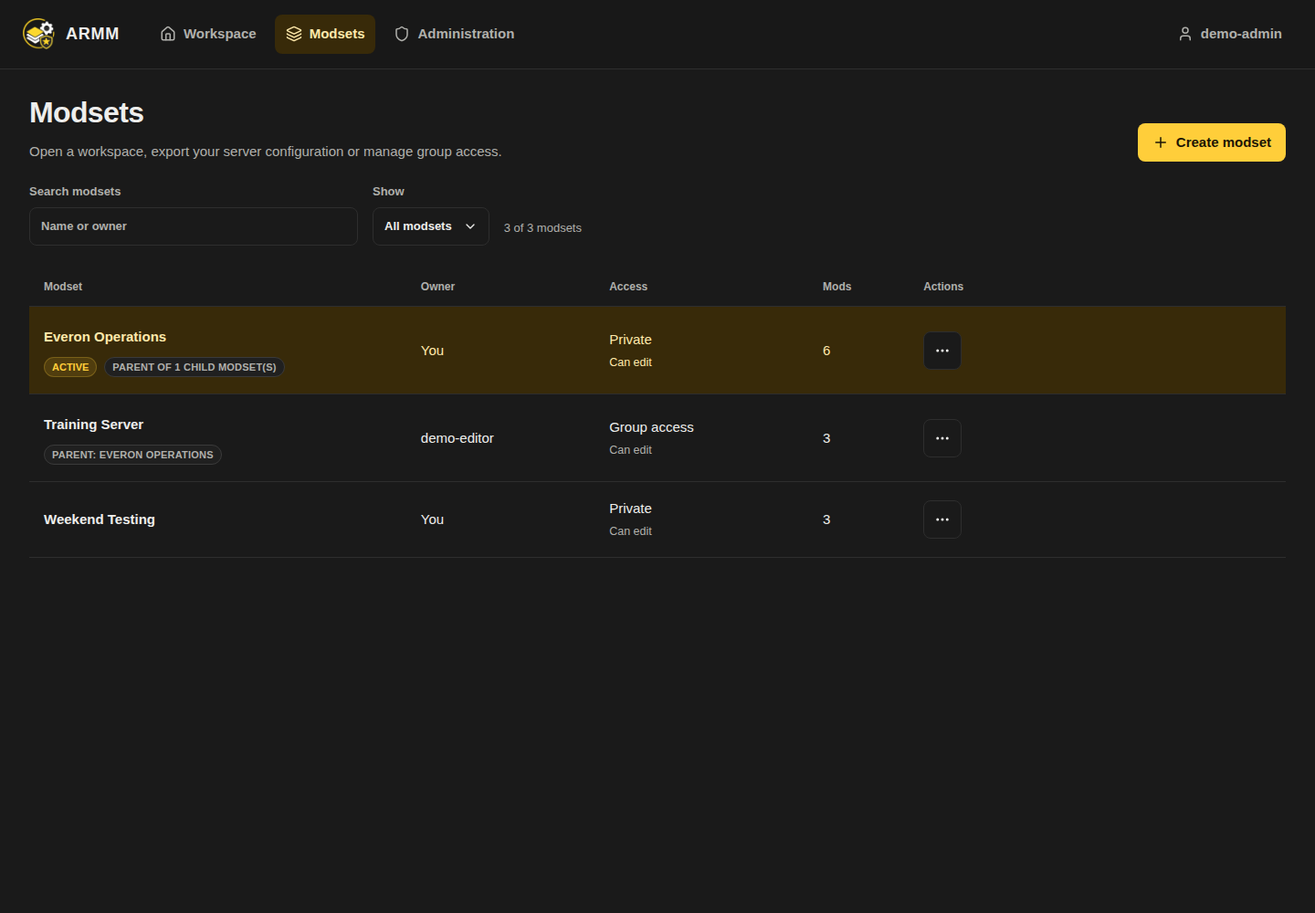
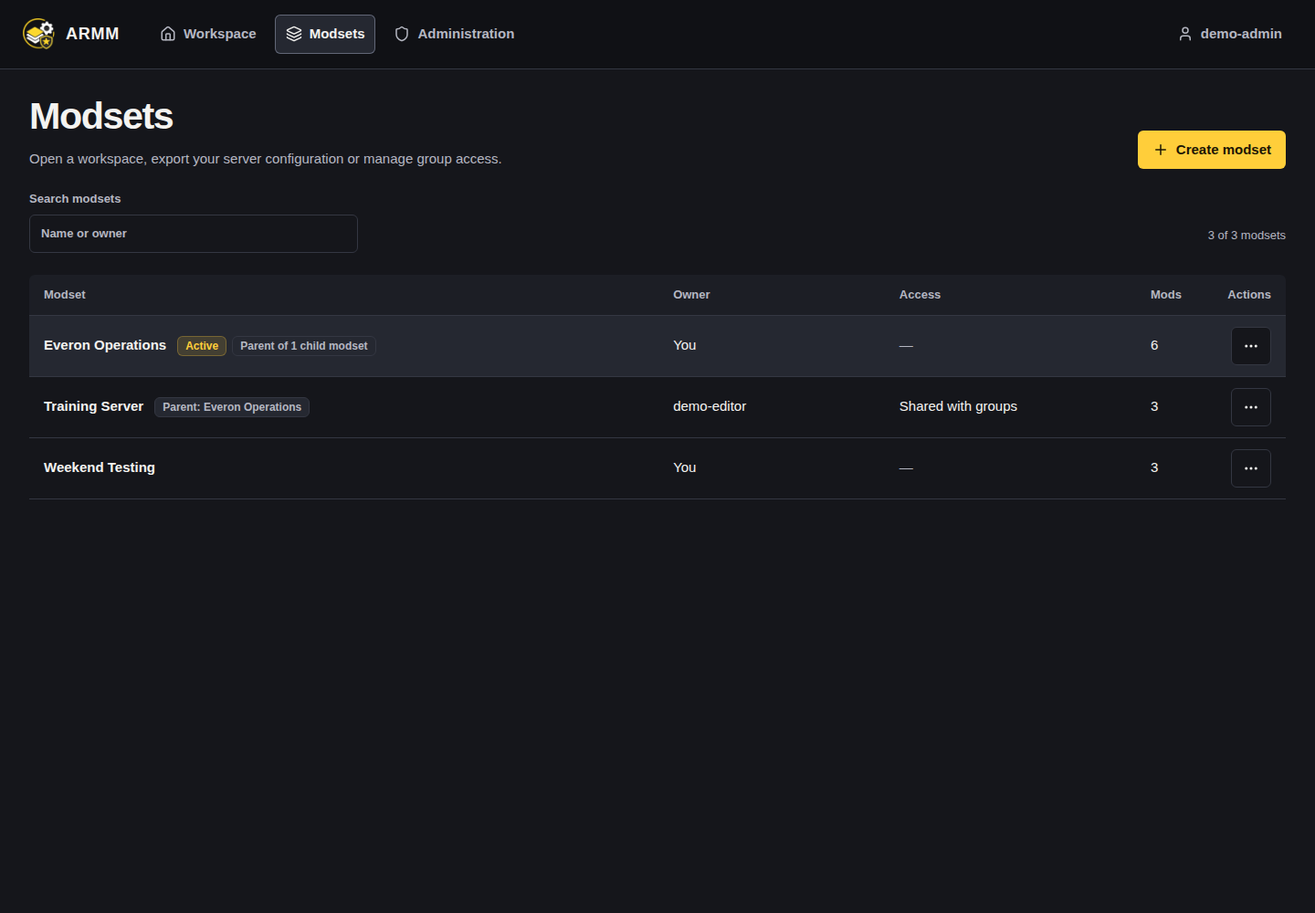
Refresh screenshots and guides for the redesigned interface

diff --git a/docs/sync-access.md b/docs/sync-access.md
@@ -1,6 +1,6 @@
 # Sync access
 
-Sync access is included in **0.2.8**; it is not available in 0.2.7 images. Administrators manage configured accesses under **Administration → Sync access**. This page lists existing accesses only, including disabled or blocked entries; it does not repeat the modset directory.
+Sync access was introduced in **0.2.8**. This guide describes current `main`. Administrators manage configured accesses under **Administration → Sync access**. This page lists existing accesses only, including disabled or blocked entries; it does not repeat the modset directory.
 
 ## Create an access
 
@@ -12,19 +12,21 @@ Choose **Create sync access**. The wizard asks for:
 
 Nothing is created until the final confirmation. Cancel discards the wizard draft. A failed save retains entered values. One configured access is allowed per modset, including disabled accesses; edit the existing entry instead of creating a duplicate.
 
-After saving, the access appears as a row. In 1.0.0, **Edit**, **Download**, **Disable** and **Delete** are grouped in the same **More actions** (three-dot) menu used by Modsets. Search by access name, modset or game server, or filter by Active, Disabled and Blocked. Connection settings persist for future edits and downloads. Game server passwords are never accepted or stored; `passwordRequired` only instructs the app to ask for one.
+After saving, the access appears as a row. Open the row’s three-dot menu to edit settings, download a configuration, enable or disable the access, renew its key, or delete it. Connection settings persist for future edits and downloads. Game server passwords are never accepted or stored; `passwordRequired` only instructs the app to ask for one.
 
-## Edit, download and replace
+## Manage an access
 
 **Edit** reopens the wizard with saved values. Changing the name, URL or game server details preserves the existing key. The selected modset stays fixed. Download a fresh configuration after changing connection details; previously imported files retain their old settings.
 
 **Download** creates `armm-sync.json` from saved settings and the current key. Repeated downloads do not rotate the key. Anyone possessing the file can read the selected modset's export without an ARMM account.
 
-**Disable** asks for confirmation and blocks both export and configuration download. To enable or renew access, edit it and explicitly select **Replace the key and enable access**, then confirm the invalidation of previous keys. This also restores access under the acting administrator's authority. Replacing a key immediately invalidates old app configurations.
+**Disable** blocks exports and configuration downloads while preserving the key and settings. **Enable** restores both using the same key when the original authorization remains valid. Previously imported configurations can reconnect.
+
+**Renew key** replaces the key after confirmation and authorizes the new key under the acting administrator. Download and import a new configuration after renewal. A disabled entry remains disabled until you select **Enable**.
 
 **Delete** (since 1.0.0) asks for confirmation, permanently removes the saved key/settings and invalidates existing app configurations. The modset and its mods remain untouched and become eligible for a new access. This is separate from Disable, which preserves settings. Only administrators can delete; no migration is required.
 
-Existing accesses from before the wizard are retained as rows marked **Setup needed**. Choose **Finish setup** to save connection details. If no recoverable key exists, supply the existing key once or explicitly replace it. Setup with the existing key preserves that key; settings-only edits do not silently enable disabled or blocked accesses.
+Existing accesses from before the wizard are retained as rows marked **Setup needed**. Choose **Finish setup** to save connection details. If no recoverable key exists, supply the existing key once or choose **Renew key** from the row menu. Setup with the existing key preserves that key; settings-only edits do not silently enable disabled or blocked accesses.
 
 ## Import contract
 
@@ -68,7 +70,7 @@ Only installed versions are included. The key grants no write, refresh, manageme
 
 Child access intentionally includes inherited parent mods, binding installed versions and the effective child export order. Every export verifies that its creator exists, is active, still has the administrator role and has required child/parent access. Administrators have access to all modsets; the release is an explicit administrative authorization independent of the owner's group grants.
 
-Changing, attaching or detaching the parent disables the access. Normal parent mod/version/order changes appear in subsequent exports. Disabled/deleted/demoted creators block existing keys. An active administrator can renew by explicitly replacing the key. Older keys issued by ordinary owners remain blocked until renewed.
+Changing, attaching or detaching the parent disables the access. Normal parent mod/version/order changes appear in subsequent exports. Disabled/deleted/demoted creators block existing keys. An active administrator can use **Renew key** to bind a new key to the current parent and administrator, then **Enable** if the access is disabled. Older keys issued by ordinary owners remain blocked until renewed.
 
 ## Persistence and upgrades
 
@@ -76,7 +78,7 @@ Migration `005_modset_sync_access` adds the credential table. Migration `006_syn
 
 For repeat downloads, new keys are encrypted at rest with a domain-separated key derived from `ARMM_SECRET_KEY`; the SHA-256 hash remains the export authentication verifier. Raw keys and encrypted ciphertext are excluded from overview/status responses and audit details. Saved configuration contains only the display name, HTTPS origin and optional game server hints.
 
-Back up the database and matching `.env` before upgrading. Changing `ARMM_SECRET_KEY` prevents recovery of encrypted sync keys, although hash-based export authentication can still work. Edit affected accesses to restore their existing key or explicitly replace it. Keep imported files private and avoid logging Authorization headers.
+Back up the database and matching `.env` before upgrading. Changing `ARMM_SECRET_KEY` prevents recovery of encrypted sync keys, although hash-based export authentication can still work. Use **Edit** to restore an existing key or **Renew key** to issue a replacement. Keep imported files private and avoid logging Authorization headers.
 
 ## API
 
@@ -87,6 +89,8 @@ All management endpoints require an active administrator session; normal session
 | `GET /api/admin/sync-access` | List existing accesses and their non-secret saved settings |
 | `POST /api/admin/sync-access` | Atomically create access with `modset_id`, `name`, `baseUrl` and optional `gameServer` |
 | `PUT /api/admin/sync-access/{id}` | Save `name`, `baseUrl`, optional `gameServer`; optionally restore `accessKey` or explicitly set `replaceKey: true` |
+| `POST /api/admin/sync-access/{id}/enable` | Enable with the existing key if the creator and parent checks still pass |
+| `POST /api/admin/sync-access/{id}/renew-key` | Rotate the key and update its authorization while preserving the enabled flag |
 | `GET /api/admin/sync-access/{id}/configuration` | Download saved configuration with the current recovered key |
 | `DELETE /api/admin/sync-access/{id}` | Permanently delete key/settings (since 1.0.0; 204, or 404 if absent) |
 | `DELETE /api/modsets/{id}/sync-access` | Disable access |
@@ -96,4 +100,4 @@ Earlier admin-only status, create/replace-key and ad-hoc configuration endpoints
 
 Invalid/missing/disabled export keys return 401, unavailable creator permissions return 403, and rate limits return 429 with `Retry-After: 60`. Duplicate creation or unavailable configuration/key returns 409; invalid settings return 422. Limits remain 600 authenticated exports per minute per modset and 120 invalid attempts per minute per connecting IP, with bounded process-local counters. Reverse-proxy addresses can be shared; separate backend processes have separate counters.
 
-Run backend tests, including isolated PostgreSQL cases, and frontend tests/build as described in [development](development.md). `npm run test:sync:browser` checks staged creation, failed-save recovery, reloads, persisted edits, repeat downloads, disable/replace and administrator guards in both themes at desktop/mobile widths. Browser API calls are mocked and do not modify live data.
+Run backend tests, including isolated PostgreSQL cases, and frontend tests/build as described in [development](development.md). `npm run test:sync:browser` checks staged creation, failed-save recovery, reloads, persisted edits, repeat downloads, disable, enable with the same key, key renewal and administrator guards in both themes at desktop/mobile widths. Browser API calls are mocked and do not modify live data.

diff --git a/docs/user-guide.md b/docs/user-guide.md
@@ -1,6 +1,6 @@
 # User guide
 
-This guide describes **1.0.0**. See the [release notes](releases/1.0.0.md). Screenshots use fictional data and retain their documented [capture scope](screenshots.md).
+This guide describes the interface on current `main`. For the published 1.0.0 release, see its [release notes](releases/1.0.0.md). Screenshots use fictional [demonstration data](screenshots.md).
 
 ## ARMM version and release updates
 
@@ -12,7 +12,7 @@ See the [desktop and mobile examples](screenshots.md#armm-version-and-release-up
 
 ## Workspace and version health
 
-Select **Workspace**, then choose the **Active modset**. The toolbar owns **Export JSON** and **Add mod**. On desktop the left browser contains search, the **Show filters** control, **Back to overview** and tracked mods. On smaller screens, use **Open mod list** to open the drawer; selecting a mod, Escape, the close button or the backdrop closes it.
+Select **Workspace**, then choose the **Active modset**. The toolbar owns **Export Modset** and **Add mod**. On desktop the left browser contains search, the **Show filters** control, **Back to overview** and tracked mods. The filter panel offers a status **Filter** and **Sort by** options **Updates first** and **Name**. On smaller screens, use **Open mod list** to open the drawer; selecting a mod, Escape, the close button or the backdrop closes it.
 
 The Overview shows counts, the automatic schedule, Version health, Needs attention and Recently checked. Select a Version health category to filter the mod browser; this clears search and opens the mobile browser when needed.
 
@@ -27,7 +27,7 @@ Versions are normalized (including a leading v), compared as parsed versions whe
 
 ## Estimated modset size
 
-Overview shows **Estimated size** in Overview. It sums Workshop sizes for mods with an installed version, including inherited mods and dependencies, counting each mod ID once. Mods with **No installed version** are excluded.
+Overview shows **Estimated size**. It sums Workshop sizes for mods with an installed version, including inherited mods and dependencies, counting each mod ID once. Mods with **No installed version** are excluded.
 
 Sizes require an explicit supported unit (B, KB/MB/GB/TB or KiB/MiB/GiB/TiB). Missing or invalid sizes remain unknown. A partial total shows the number of unknown sizes; if all installed mods have unknown sizes, the value is **Unknown**. An empty installed set displays **0 B**. Totals use decimal units.
 
@@ -35,7 +35,7 @@ This is Workshop metadata, not measured disk usage or a size lookup for the sele
 
 ## Inspect and update a mod
 
-Open a mod from the browser or overview. The detail page shows its name, copyable Workshop ID, metadata and installed/latest version comparison. **Workshop** opens its source page. **Check updates** starts a manual reliable check using the configured metadata provider.
+Open a mod from the browser or overview. The detail page shows its name, copyable Workshop ID, game version, size, last check and installed/latest versions. For inherited mods, the version comparison links to the parent modset. **Workshop** opens its source page. **Check updates** starts a manual reliable check using the configured metadata provider.
 
 With write access, choose an installed version from known versions and save it, or select **Set to latest**. **Copy JSON** copies one `{modId, name, version}` entry when an installed version exists; it does not mark a mod installed. Workshop ID copy copies only the raw ID. Dependencies and **Required by** remain visible; tracked dependencies can be opened directly.
 
@@ -53,7 +53,7 @@ The overview **Changelog** records changes in this modset, such as add/remove/ve
 
 ## Modsets and group access
 
-Open **Modsets** to search by name/owner or filter owned/group-access modsets. Select a name to open its workspace. **Edit** combines the name with group grants; **Export** downloads JSON. **More actions** groups **Edit**, **Export**, **Duplicate** and **Delete**; Edit and Export are no longer separate row buttons.
+Open **Modsets** to search by name or owner. Select a name to open its workspace. **Edit** combines the name with group grants; **Export** downloads JSON. **More actions** groups **Edit**, **Export**, **Duplicate** and **Delete**; Edit and Export are no longer separate row buttons.
 
 Modsets start private. Administrators manage group membership; owners and administrators grant groups **Read** or **Write**. The strongest applicable grant wins.
 
@@ -68,13 +68,13 @@ Administrators have emergency access without becoming owners. Copies receive ` (
 
 ## Sync access
 
-Administrators open **Administration → Sync access → Create sync access** and follow a wizard to select the modset, name and connection details. Only configured accesses appear as rows with **Edit**, **Download** and **Disable** actions. Settings persist for later edits; repeated downloads reuse the current key. One access is allowed per modset. The file includes the current `exportPath`; the desktop app uses it directly. Optional game server hints include `passwordRequired`, never a password. Parent/child rights are checked on every export. Existing entries may require **Finish setup** to save their settings and restore a recoverable key. See [setup, permissions and key replacement](sync-access.md).
+Administrators open **Administration → Sync access → Create sync access** and follow a wizard to select the modset, name and connection details. Only configured accesses appear in the table. Use the three-dot menu for **Edit**, **Download**, **Enable** or **Disable**, **Renew key** and **Delete**. **Enable** reuses the current key. After **Renew key**, import a fresh configuration. Settings persist for later edits; repeated downloads reuse the current key. One access is allowed per modset. The file includes the current `exportPath`; the desktop app uses it directly. Optional game server hints include `passwordRequired`, never a password. Parent/child rights are checked on every export. Existing entries may require **Finish setup** to save their settings and restore a recoverable key. See [setup, permissions and key replacement](sync-access.md).
 
 ## Administration and account settings
 
-Administrators open **Administration** and choose **Users**, **Groups**, **Discord**, **Sync access**  or **Audit log**. Users and groups have local search. In the user editor, changed role, enabled state, memberships and an optional password save in one transaction. Failure keeps the draft for correction; it does not leave half-applied account changes. A password/role/status change invalidates existing sessions as applicable; membership changes are enforced on subsequent requests.
+Administrators open **Administration** and choose **Users**, **Groups**, **Discord**, **Sync access** or **Audit log**. The Users page supports search by username. In the user editor, changed role, enabled state, memberships and an optional password save in one transaction. Failure keeps the draft for correction; it does not leave half-applied account changes. A password/role/status change invalidates existing sessions as applicable; membership changes are enforced on subsequent requests.
 
-Use **Groups** to manage members, and **Discord** to select webhook modset scopes. Empty scope on creation defaults to all current modsets; a future private copy is not added automatically. Update alerts remain limited to scheduled runs at 10:00 and 19:00 in the configured timezone; the explicit webhook test action sends a test message.
+Use **Groups** to manage members and see which modsets grant the group **Read** or **Write**. Use **Discord** to select webhook modset scopes. Expand an **Audit log** row to see stored event details, including before/after role or status values where available. Empty scope on creation defaults to all current modsets; a future private copy is not added automatically. Update alerts remain limited to scheduled runs at 10:00 and 19:00 in the configured timezone; the explicit webhook test action sends a test message.
 
 The account menu contains theme switching, **Account settings** and **Sign out**. Regular users see **Settings** rather than administrator tools. OIDC sign-out clears the ARMM cookie only; it does not end the provider session.
 

diff --git a/docs/screenshots.md b/docs/screenshots.md
@@ -1,6 +1,6 @@
 # Interface gallery
 
-All captures use **fictional demonstration data**. The desktop workspace and mod detail screenshots show the version and GitHub link available in **1.0.0**. Their version number is an example. The older Modsets, Administration, Sync access and closed-drawer mobile captures show **0.2.8**. The capture instructions below use a read-only mocked API fixture.
+All captures show the current `main` interface with **fictional demonstration data**. Build versions, account names and server details are illustrative. The capture script uses a read-only mocked API fixture.
 
 ## Workspace
 
@@ -10,23 +10,23 @@ Global navigation, the active-modset toolbar and four Version health categories.
 
 ## ARMM version and release updates
 
-These captures illustrate the 1.0.0 interface with a simulated newer release. The running version and repository link are available to signed-in users. The update link is visible to administrators when a newer stable release is available.
+These captures show a simulated update from 1.0.0 to 1.1.0. The running version and repository link are available to signed-in users. The update link is visible to administrators when a newer stable release is available.
 
 <img src="images/armm-update-desktop.png" alt="Desktop mod sidebar with ARMM version, GitHub link and administrator update notice" width="310" />
 
 <img src="images/armm-update-mobile.png" alt="Mobile mod-list drawer with the administrator update notice at the bottom" width="272" />
 
-The navigation browser test captures these examples when `ARMM_TEST_SCREENSHOTS` is set. The API responses use fictional data.
+The capture script saves these two examples as sidebar crops.
 
 ## Mod detail
 
 ![Dark mod detail with Workshop ID copy and version comparison](images/mod-detail-dark.png)
 
-The Workshop ID has its own copy action. Installed/latest comparison, checks and dependency relationships stay together.
+The Workshop ID has its own copy action. The selected row connects to the detail view on desktop. The version comparison appears above the description, dependencies and changelog.
 
 ## Modsets
 
-![Modset management with ownership filters and row actions](images/modsets-dark.png)
+![Modset management with name or owner search and row actions](images/modsets-dark.png)
 
 Names open the workspace; Edit combines name and group permissions. Edit, Export, Duplicate and Delete live in additional actions.
 
@@ -34,13 +34,13 @@ Names open the workspace; Edit combines name and group permissions. Edit, Export
 
 ![Administration Users section with focused section navigation](images/administration-dark.png)
 
-Users, Groups, Discord and Audit log are separate sections. Personal Account settings are accessed independently.
+Users, Groups, Discord, Sync access and Audit log are separate sections. The administration tables share a three-dot actions menu. Personal Account settings are accessed independently.
 
 ## Sync access
 
 ![Configured Sync access entries](images/sync-access-dark.png)
 
-Only configured accesses are listed, with Edit, Download and Disable actions.
+Only configured accesses are listed. The actions menu separates Edit, Download, Enable or Disable, Renew key and Delete.
 
 ![Sync access setup wizard review](images/sync-wizard-dark.png)
 
@@ -69,6 +69,6 @@ cd frontend
 ARMM_DOCS_URL=http://localhost:5173 node scripts/capture-docs.cjs
 ```
 
-The default output is `../docs/images` relative to the working directory; override with `ARMM_DOCS_OUTPUT`. The script intercepts all API reads, rejects mutations/unmocked external requests, fixes locale/timezone/viewport and uses deterministic example data. Desktop captures are 1440×1000; mobile is 390×844. Captures use the application's DOM/CSS, not hand-drawn UI mockups.
+The default output is `../docs/images` relative to the working directory; override with `ARMM_DOCS_OUTPUT`. The script intercepts all API reads, rejects mutations/unmocked external requests, fixes locale/timezone/viewport and uses deterministic example data. Desktop captures use a 1440×1000 viewport. The mobile detail uses 390×844 and the cropped mobile drawer uses a 320×720 viewport.
 
 `architecture.svg` and `manual-refresh.svg` are editable vector diagrams of code behavior. They complement the screenshots; they are not generated product illustrations. Keep wiki image copies synchronized when publishing documentation.

diff --git a/README.md b/README.md
@@ -5,7 +5,7 @@ It stores mod data per user-owned modset, regularly refreshes Workshop metadata,
 
 ![ARMM workspace in dark mode](docs/images/workspace-dark.png)
 
-*Current interface with fictional demonstration data. [More screenshots](docs/screenshots.md).*
+*Current `main` interface with fictional demonstration data. [More screenshots](docs/screenshots.md).*
 
 **Current release: 1.0.0.** Adds the running ARMM version, administrator release notifications, and permanent deletion of configured [Sync accesses](docs/sync-access.md). It also updates runtime dependencies. Deployment examples select `1.0.0`. See the [release notes](docs/releases/1.0.0.md) and [upgrade guide](docs/upgrading.md).
 
@@ -34,12 +34,12 @@ It stores mod data per user-owned modset, regularly refreshes Workshop metadata,
 
 ## Using the interface
 
-- **Workspace:** the active modset selector, Export JSON and Add mod sit above the overview or selected mod. The desktop mod browser contains search, status filters and sorting; on phones it opens as a drawer.
+- **Workspace:** the active modset selector, Export Modset and Add mod sit above the overview or selected mod. The desktop mod browser contains search, status filters and sorting; on phones it opens as a drawer.
 - **ARMM release information:** the mod sidebar shows the running build and a GitHub link. Administrators see a release notes link when a newer stable version is available. See [ARMM version and release updates](docs/user-guide.md#armm-version-and-release-updates).
 - **Overview:** Version health distinguishes Up to date, Update available, No installed version and No latest version. Selecting a category filters the browser. Needs attention lists updates and missing latest versions; mods without an installed version are intentionally neutral. Export order and the paged modset Changelog are collapsible.
 - **Mod details:** copy the Workshop ID, compare installed/latest versions, check updates, choose a known installed version, inspect dependencies/Required by, or copy a single JSON entry when an installed version exists. Running manual checks remain visible after reload and in other tabs.
-- **Modsets:** search by name or owner, filter owned/group-access modsets, and open a modset from its name. Edit combines its name and group permissions. Edit, Export, Duplicate and Delete are grouped in the additional actions menu. Copies start private without group grants or webhook scope membership. The last remaining modset is protected.
-- **Administration:** administrators have separate Users, Groups, Discord and Audit log sections, plus **Sync access** for creating sync access through a wizard and managing saved configurations as rows. The user editor saves role, account status, memberships and an optional password together. Personal Account settings, theme switching and Sign out are in the account menu; regular users see Settings instead of Administration.
+- **Modsets:** search by name or owner and open a modset from its name. Edit combines its name and group permissions. Edit, Export, Duplicate and Delete are grouped in the additional actions menu. Copies start private without group grants or webhook scope membership. The last remaining modset is protected.
+- **Administration:** administrators have separate Users, Groups, Discord and Audit log sections, plus **Sync access** for creating sync access through a wizard and managing saved configurations as rows. Groups lists directly granted modsets with Read or Write access. Audit log rows expand to show saved details. The user editor saves role, account status, memberships and an optional password together. Personal Account settings, theme switching and Sign out are in the account menu; regular users see Settings instead of Administration.
 - **Navigation and recovery:** copied URLs, reload and browser Back/Forward retain the selected view/modset/mod. Failed reads show an error and Retry rather than misleading empty lists. Successful writes are not repeated when a following list reload fails. Dialogs and selects support keyboard navigation and retain drafts after errors.
 
 See the [user guide](docs/user-guide.md) for permissions, keyboard controls, URL examples and daily workflows.

diff --git a/docs/api.md b/docs/api.md
@@ -44,7 +44,7 @@ Administrator `PATCH /api/users/{user_id}` accepts optional changed fields:
 
 Role, status, memberships, password and the success audit entry commit together; failure rolls them back. Omitted fields stay unchanged. An empty `group_ids` array removes memberships; null, duplicate or unknown IDs are rejected. Passwords require 12–256 characters. Password/role/status changes invalidate sessions as applicable; membership-only changes are enforced on subsequent requests without a password reset.
 
-Existing `PUT /api/admin/users/{user_id}/groups` and `PATCH /api/users/{user_id}/password` remain available. Group management is under `/api/admin/groups`; signed-in `/api/groups` exposes names and IDs. Owners/admins manage `/api/modsets/{modset_id}/group-permissions`.
+Existing `PUT /api/admin/users/{user_id}/groups` and `PATCH /api/users/{user_id}/password` remain available. Group management is under `/api/admin/groups`. Its administrator-only GET response includes membership and `modset_grants` with `modset_id`, `modset_name` and `permission` (`read` or `write`). Signed-in `/api/groups` exposes names and IDs. Owners/admins manage `/api/modsets/{modset_id}/group-permissions`.
 
 ## Export and pagination
 
@@ -54,4 +54,4 @@ Modset activity and administrator audit reads support `limit`/`offset`. Audit ca
 
 ## Sync access
 
-Version 0.2.8 adds export-only bearer keys and `armm-sync.json` with a server-generated `exportPath`. See [sync access](sync-access.md) for authentication, endpoints, import fields and parent/child permissions. Existing session-authenticated routes retain their permissions.
+Version 0.2.8 adds export-only bearer keys and `armm-sync.json` with a server-generated `exportPath`. On current `main`, administrators can enable a valid existing key and renew a key through separate endpoints. See [sync access](sync-access.md) for authentication, endpoints, import fields and parent/child permissions. Existing session-authenticated routes retain their permissions.

diff --git a/docs/architecture.md b/docs/architecture.md
@@ -25,4 +25,4 @@ Estimated modset size is calculated in the frontend from returned mod metadata. 
 
 Sync access adds an administrator-only setup/configuration API and a scoped bearer export API in FastAPI; it uses the existing PostgreSQL database and requires no additional service. See [sync access](sync-access.md) for encryption, rights and import fields.
 
-See [deployment examples](../docker-compose.example.yml), [job internals and migration](manual-refresh-upgrade.md), and the [Traefik chapter](https://github.com/morok101st/Arma-Reforger-Mod-Manager/wiki/Traefik-and-Reverse-Proxy). The service diagram applies to **0.2.8**; durable jobs were introduced in 0.2.6. Parent/child behavior and the size estimate use these existing services.
+See [deployment examples](../docker-compose.example.yml), [job internals and migration](manual-refresh-upgrade.md), and the [Traefik chapter](https://github.com/morok101st/Arma-Reforger-Mod-Manager/wiki/Traefik-and-Reverse-Proxy). The service diagram also applies to current `main`. Durable jobs were introduced in 0.2.6. Parent/child behavior and the size estimate use these existing services.

diff --git a/docs/parent-child-modsets.md b/docs/parent-child-modsets.md
@@ -12,7 +12,7 @@ Inherited entries identify their source in the browser, detail and export-order 
 
 ## Mod browser
 
-**Child mods first** is enabled by default for child modsets. The browser lists local mods before inherited parent mods; the selected **Sort by** mode (Updates first, Name, Status, Last checked or Export order) applies within each group. Turn off the checkbox to restore global sorting. Search and status filters still apply to both groups. This browser preference does not change the exported sequence.
+**Child mods first** is enabled by default for child modsets. The browser lists local mods before inherited parent mods; the selected **Sort by** mode (**Updates first** or **Name**) applies within each group. Turn off the checkbox to restore global sorting. Search and status filters still apply to both groups. This browser preference does not change the exported sequence.
 
 ## Export order
 
